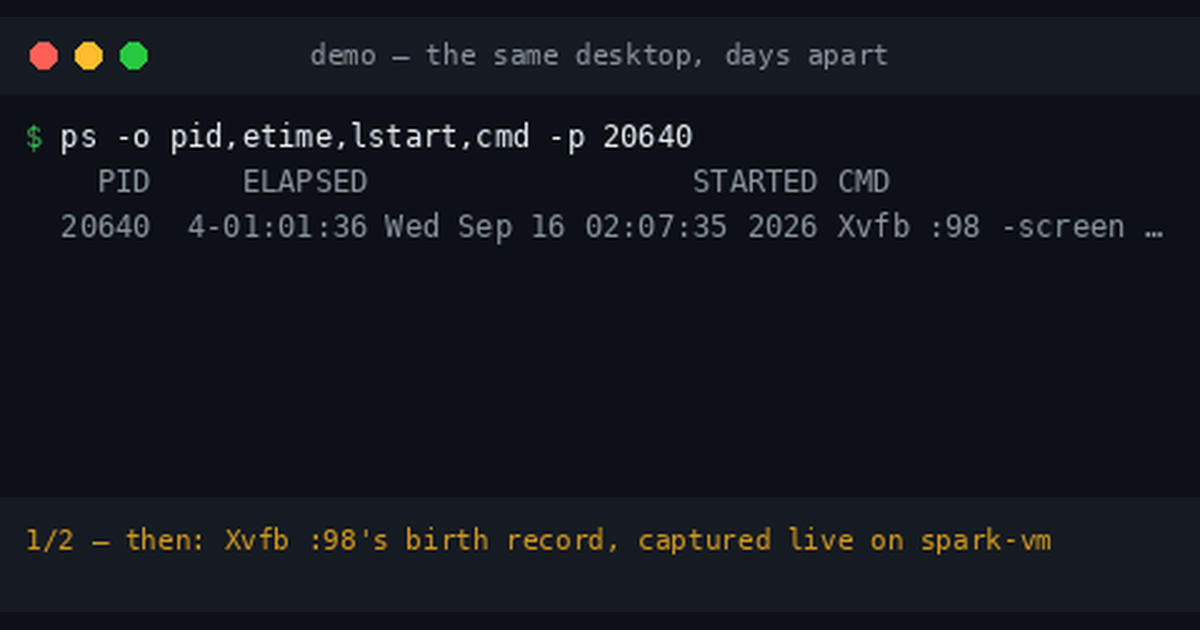
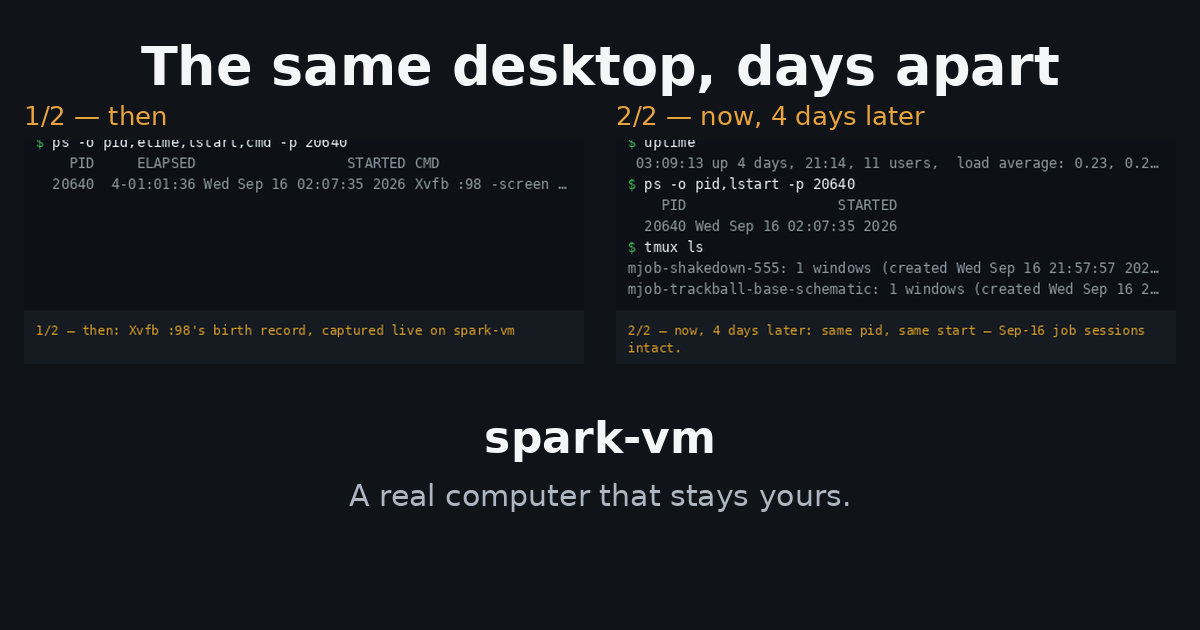
strategy/sales: review round 1 fixes — pair og:image, pilot disclosure, copy fidelity
Design B1: og-persistence-pair.png rebuilt as the actual then/now pair —
both GIF frames with sublabels, legible headline and wordmark
(chrome title bars cropped; reuse, not reshoot).
Design B2/Product nit 3: no raw template token or repo-internal doc path
in human-facing copy on waitlist.html; launch-frame sentence + operator
comment only. Design B3: summary:focus-visible added. Design N1/N2/N3:
inline style -> class, mobile breakpoints on both pages, tighter hero
padding at 520px.
Product Blocker 1/Docs Blocker 1: FAQ Q6 discloses the pre-launch pilot
cohort before waitlist-order general invites; gate recorded in README.
Product Blocker 2: Fly.io citation re-pointed at the real decision records
(goal-workspace NEEDS_USER.md register + docs/HOSTED_UNBLOCK_PASS.md).
Product nit 1/Docs Blocker 2: /waitlist context line is now the verbatim
§3 hero microcopy; FIFO/14-day line kept as a second line.
Product nit 4/5: /go/selfhost shim moved to the markup remainder;
remainder named as H15 §8's '§7 waitlist-era endpoint surface'.
Docs nit 1 moot (script rewritten). CHANGELOG entry added (PR number to
be filled at open).

diff --git a/site/waitlist.html b/site/waitlist.html
@@ -43,15 +43,19 @@ button:hover{background:#1a5fd0}
 button:focus-visible,a:focus-visible{outline:3px solid var(--accent);outline-offset:2px}
 code{background:#f0f2f5;padding:1px 6px;border-radius:4px;font-size:.9em}
 .path-a{border:1px dashed var(--line);border-radius:12px;padding:18px 20px;margin:24px 0}
+.fine{font-size:.9rem;color:var(--muted)}
 .back{display:inline-block;margin-top:8px}
 a{color:var(--accent)}
+@media (max-width:520px){ main{padding:32px 20px} form{padding:18px} }
 </style>
 </head>
 <body>
 <main>
   <h1>Join the waitlist</h1>
-  <p class="muted">A real computer that stays yours — first invites go to this
-  list, in order. Each invite stays claimable for 14 days.</p>
+  <p class="muted">Your agent can start the signup — the confirmation email
+  goes to your owner.</p>
+  <p class="fine">Invites go out in waitlist order; each invite stays
+  claimable for 14 days.</p>
 
   <!-- The form endpoint (POST /waitlist/form) is spec'd in
        docs/HOSTED_SIGNUP_WEB_UI.md §4.2 and docs/WAITLIST_OPERATIONS.md §2
@@ -82,12 +86,13 @@ a{color:var(--accent)}
     <button type="submit">Join the waitlist</button>
   </form>
 
+  <!-- DEPLOY: the path-A inbox address is operator-provisioned at launch
+       (docs/WAITLIST_OPERATIONS.md §10); substitute it for the sentence
+       below. It must never appear in the markup before then. -->
   <div class="path-a">
-    <p style="margin:0"><strong>Your agent can start the signup.</strong>
-    Have it email the waitlist inbox at
-    <code>{{WAITLIST_INBOX}}</code> — the confirmation email goes to your
-    owner. <span class="muted">(Inbox address published at launch; provisioned
-    by the operator per <code>docs/WAITLIST_OPERATIONS.md</code> §10.)</span></p>
+    <p style="margin:0">Your agent reaches the waitlist by email — the
+    agent-inbox address will be published here at launch, and the confirmation
+    email goes to your owner.</p>
   </div>
 
   <a class="back" href="/">← Back to spark-vm</a>

diff --git a/site/index.html b/site/index.html
@@ -38,7 +38,7 @@ p{margin:0 0 14px}
 .btn{display:inline-block;background:var(--accent);color:#fff;text-decoration:none;
   font-weight:600;padding:12px 26px;border-radius:8px;margin:10px 0 4px}
 .btn:hover{background:#1a5fd0}
-.btn:focus-visible,a:focus-visible{outline:3px solid var(--accent);outline-offset:2px}
+.btn:focus-visible,a:focus-visible,summary:focus-visible{outline:3px solid var(--accent);outline-offset:2px}
 .quiet{display:block;margin-top:10px;font-size:.95rem}
 .hero a.quiet{color:var(--hero-muted)}
 a{color:var(--accent)}
@@ -56,7 +56,8 @@ details p{margin:10px 0 0}
 footer{border-top:1px solid var(--line);padding:28px 0 48px;font-size:.9rem;color:var(--muted)}
 footer .wrap{max-width:680px;margin:0 auto;padding:0 20px}
 footer p{margin:0 0 6px}
-@media (max-width:520px){ .hero h1{font-size:1.8rem} section{padding:30px 0} }
+.faq-cta{margin-top:18px}
+@media (max-width:520px){ .hero h1{font-size:1.8rem} .hero{padding:48px 0 40px} section{padding:30px 0} }
 </style>
 </head>
 <body>
@@ -165,10 +166,11 @@ footer p{margin:0 0 6px}
     <details>
       <summary>When does it launch?</summary>
       <p>We don&rsquo;t print dates we can&rsquo;t keep. The waitlist is the
-      launch list — first invites go there. Invites go out in waitlist order,
-      and each invite stays claimable for 14 days.</p>
+      launch list — first invites go there. Before general invites, a small
+      pilot cohort of beta Muses gets early boxes; general invites then go out
+      in waitlist order, and each invite stays claimable for 14 days.</p>
     </details>
-    <p style="margin-top:18px"><a class="btn" href="/waitlist?src=faq">Join the waitlist</a></p>
+    <p class="faq-cta"><a class="btn" href="/waitlist?src=faq">Join the waitlist</a></p>
   </section>
 
   <section>

diff --git a/site/derive_og_image.py b/site/derive_og_image.py
@@ -1,46 +1,92 @@
 #!/usr/bin/env python3
-"""Derive the waitlist page's og:image from the shipped demo-asset GIF.
+"""Derive the waitlist page's og:image from the shipped demo asset.
 
-Per docs/FUNNEL_MEASUREMENT.md §5 (PR #99) and docs/HOSTED_SIGNUP_WEB_UI.md
-§4.1 (H15): og:image reuses the persistence pair from the demo-assets plan —
-reuse, don't reshoot. Source of truth is assets/demo-persistence-pair.gif
-(asset 3, shipped as PR #137); this script extracts its first frame and
-renders it onto a 1200x630 social-card canvas (first-party hosted, no
-query-string trackers).
+docs/FUNNEL_MEASUREMENT.md §5 + docs/HOSTED_SIGNUP_WEB_UI.md §4.1 require
+the social image at /assets/og-persistence-pair.png to be REUSED from
+assets/demo-persistence-pair.gif (the shipped persistence pair, asset 3 of
+PR #137) — "reuse, don't reshoot."
 
+This script composes the actual pair: both GIF frames (the Xvfb birth
+record, then the same desktop 4 days later) on a 1200×630 social-card
+canvas with a legible headline and the spark-vm wordmark. The macOS
+window-chrome title bar is cropped off each frame (it duplicates the card
+headline); everything visible below it is the shipped frame, untouched.
+
+Deterministic: same source GIF -> byte-identical PNG. Requires Pillow.
 Usage: python3 site/derive_og_image.py
-Output: site/og-persistence-pair.png (overwritten)
-Requires: Pillow (pip install pillow)
 """
 
 import sys
 from pathlib import Path
 
-from PIL import Image
+from PIL import Image, ImageDraw, ImageFont
 
 REPO = Path(__file__).resolve().parent.parent
 SRC = REPO / "assets" / "demo-persistence-pair.gif"
 DST = REPO / "site" / "assets" / "og-persistence-pair.png"
 
-CANVAS = (1200, 630)
-BG = (13, 17, 23)  # near-black, matches the terminal-frame aesthetic
+W, H = 1200, 630
+BG = (16, 20, 24)        # page hero band, near-black
+INK = (244, 246, 248)    # near-white
+ORANGE = (232, 163, 61)  # matches the pair's own caption color
+MUTED = (174, 182, 194)
+
+FONT_DIR = Path("/usr/share/fonts/truetype/dejavu")
 
 
-def main() -> int:
+def font(name, size):
+    return ImageFont.truetype(str(FONT_DIR / name), size)
+
+
+def main():
     if not SRC.exists():
-        print(f"missing source: {SRC}", file=sys.stderr)
-        return 1
-    im = Image.open(SRC)
-    im.seek(0)  # first frame: the Xvfb birth record (pid/etime/lstart)
-    frame = im.convert("RGB")
-    scale = CANVAS[0] / frame.width
-    frame = frame.resize((CANVAS[0], round(frame.height * scale)), Image.LANCZOS)
-    card = Image.new("RGB", CANVAS, BG)
-    card.paste(frame, (0, (CANVAS[1] - frame.height) // 2))
-    card.save(DST, "PNG")
-    print(f"wrote {DST} ({CANVAS[0]}x{CANVAS[1]}) from {SRC.name} frame 0")
-    return 0
+        sys.exit(f"missing source GIF: {SRC} (PR #137 asset 3)")
+
+    with Image.open(SRC) as gif:
+        frames = []
+        for i in range(gif.n_frames):
+            gif.seek(i)
+            frames.append(gif.convert("RGB"))
+    if len(frames) < 2:
+        sys.exit(f"{SRC} has {len(frames)} frame(s); the pair needs 2")
+
+    card = Image.new("RGB", (W, H), BG)
+    d = ImageDraw.Draw(card)
+
+    # Headline.
+    head = font("DejaVuSans-Bold.ttf", 54)
+    text = "The same desktop, days apart"
+    tw = d.textlength(text, font=head)
+    d.text(((W - tw) / 2, 34), text, font=head, fill=INK)
+
+    # The pair: crop each frame's title bar (46px, duplicated chrome),
+    # keep everything below untouched, scale to 560 wide.
+    label_font = font("DejaVuSans.ttf", 26)
+    labels = ["1/2 \u2014 then", "2/2 \u2014 now, 4 days later"]
+    panel_y = 140
+    for i, (frame, label) in enumerate(zip(frames[:2], labels)):
+        cropped = frame.crop((0, 46, frame.width, frame.height))
+        scale = 560 / cropped.width
+        panel = cropped.resize(
+            (560, round(cropped.height * scale)), Image.LANCZOS)
+        x = 24 + i * (560 + 32)
+        d.text((x, 100), label, font=label_font, fill=ORANGE)
+        card.paste(panel, (x, panel_y))
+
+    # Wordmark + one-liner, bottom band.
+    word = font("DejaVuSans-Bold.ttf", 44)
+    wtext = "spark-vm"
+    ww = d.textlength(wtext, font=word)
+    d.text(((W - ww) / 2, 412), wtext, font=word, fill=INK)
+    sub = font("DejaVuSans.ttf", 30)
+    stext = "A real computer that stays yours."
+    sw = d.textlength(stext, font=sub)
+    d.text(((W - sw) / 2, 478), stext, font=sub, fill=MUTED)
+
+    DST.parent.mkdir(parents=True, exist_ok=True)
+    card.save(DST)
+    print(f"wrote {DST} ({W}x{H}) from {SRC.name} frames 0+1")
 
 
 if __name__ == "__main__":
-    sys.exit(main())
+    main()

diff --git a/site/README.md b/site/README.md
@@ -22,28 +22,37 @@ The markup carries placeholders the operator fills when §10 goes live:
 - `https://<host>/` in every `<head>` tag set — the production host.
   No URL shorteners; the image URL must not carry query-string trackers
   (`docs/FUNNEL_MEASUREMENT.md` §5).
-- `{{WAITLIST_INBOX}}` on `waitlist.html` — the operator-provisioned
-  dedicated AgentMail inbox (`docs/WAITLIST_OPERATIONS.md` §10).
-- `/go/selfhost?src=selfhost` — a first-party redirect to the repo README's
-  Try-it section (`https://github.com/ntindle/spark-vm#try-it`; re-verify the
-  anchor at deploy time). `src=` stays on our domain
-  (`docs/FUNNEL_MEASUREMENT.md` §3.2).
+- On `waitlist.html` the path-A box carries a launch-frame sentence with the
+  inbox substitution point recorded in an HTML comment only — no raw
+  `{{WAITLIST_INBOX}}` token and no repo-internal doc path in human-facing
+  copy. The operator substitutes the dedicated AgentMail inbox
+  (`docs/WAITLIST_OPERATIONS.md` §10) at launch.
 - The pricing-teaser link points at the public thinking doc
   (`docs/PRICING_THINKING.md`); it becomes the pricing page when one exists.
 
+(`/go/selfhost?src=selfhost` is page-build code the loop owns, not operator
+packet: on Pages it needs a static redirect shim. It ships in a later markup
+slice — listed under the remainder below.)
+
 ## og:image provenance
 
-`assets/og-persistence-pair.png` (1200×630) is derived — not reshot — from
-the shipped demo asset `assets/demo-persistence-pair.gif` (asset 3, PR #137),
-per `docs/FUNNEL_MEASUREMENT.md` §5 and `docs/HOSTED_SIGNUP_WEB_UI.md` §4.1:
+`assets/og-persistence-pair.png` (1200×630) is composed — not reshot — from
+BOTH frames of the shipped demo asset `assets/demo-persistence-pair.gif`
+(asset 3, PR #137), per `docs/FUNNEL_MEASUREMENT.md` §5 and
+`docs/HOSTED_SIGNUP_WEB_UI.md` §4.1:
 
 ```
-python3 site/derive_og_image.py   # extracts GIF frame 0 (the Xvfb birth
-                                  # record), scales to 1200 wide, centers on
-                                  # a 1200×630 dark canvas. Requires Pillow.
+python3 site/derive_og_image.py   # crops each frame's window-chrome title
+                                  # bar (it duplicates the card headline),
+                                  # lays the then/now pair side by side with
+                                  # "1/2 — then" / "2/2 — now" sublabels, and
+                                  # adds a legible headline + wordmark.
+                                  # Requires Pillow. Deterministic: same
+                                  # source frames → same PNG.
 ```
 
-Re-running is deterministic: same source frame → same PNG.
+The card carries the `og:image:alt` promise ("The same desktop, today and
+tomorrow — nothing lost overnight") because it now actually shows the pair.
 
 ## What this slice does and does not include
 
@@ -57,14 +66,19 @@ twice (hero, FAQ — the two-CTA cap); the §4.2 form markup (required owner
 email with `autocomplete="email"`/`inputmode="email"`, optional agent-contact
 email with `autocomplete="off"`, off-screen honeypot, `rendered_at` time-trap
 field for the page-serving layer to stamp — there is no page JS); the path-A
-inbox line; the 14-day claim-window line.
+inbox line; the 14-day claim-window line; and the page-disclosure gates from
+`docs/WAITLIST_OPERATIONS.md` §10 — FAQ Q6 discloses the pre-launch pilot
+cohort before waitlist-order general invites (no dates), so the page never
+promises what the operator plan doesn't deliver.
 
-**Not yet (H15 PR 1 remainder, backend):** `POST /waitlist/form` endpoint,
-the §4.3 confirm flow (`GET` renders-only / `POST` confirms), the HMAC token
-signer, the +7d reminder / 14d drop jobs, the path-A email parser, the invite
-sender, the forget-me handler, and the `funnel_events` logging
-(`docs/FUNNEL_MEASUREMENT.md` §3.4). `scripts/funnel_metrics.py` (PR #141)
-already ships the consumer side of that logging.
+**Not yet (H15 PR 1 remainder = H15 §8's "§7 waitlist-era endpoint surface"
+plus markup):** `POST /waitlist/form` endpoint, the §4.3 confirm flow
+(`GET` renders-only / `POST` confirms), the HMAC token signer, the +7d
+reminder / 14d drop jobs, the path-A email parser, the invite sender, the
+forget-me handler, the `/go/selfhost` static redirect shim, and the
+`funnel_events` logging (`docs/FUNNEL_MEASUREMENT.md` §3.4).
+`scripts/funnel_metrics.py` (PR #141) already ships the consumer side of
+that logging.
 
 ## Honesty re-verification (build time, 2026-09-20)
 
@@ -82,7 +96,19 @@ checklist was re-run against this slice's base (`a7bbe00`):
 - No trial terms, no "free trial" wording, no "session clock" one-liner, no
   launch date anywhere in the markup.
 - Q4's hosting claim ("we run the machine") stands on the decided Fly.io
-  provider (NEEDS_USER.md, token connected) — unchanged from approved copy.
+  provider: DECIDED 2026-09-18 in the operator-decision register
+  (`NEEDS_USER.md`, kept at the goal-workspace level, not in the repo —
+  Fly.io chosen, `custom.flyio` token connected), with the repo-side record
+  in `docs/HOSTED_UNBLOCK_PASS.md` (2026-09-18 decisions). Unchanged from
+  approved copy.
 - LICENSE (MIT) present on the base the slice branched from.
+- Page-disclosure gates (`docs/WAITLIST_OPERATIONS.md` §10) covered: FAQ Q6
+  states the 14-day claim window AND discloses the pre-launch pilot cohort
+  (no dates, non-promissory wording — "a small pilot cohort of beta Muses
+  gets early boxes; general invites then go out in waitlist order").
+- "Your agent can start the signup — the confirmation email goes to your
+  owner" is the approved §3 hero microcopy, verbatim (also used as the
+  `/waitlist` context line per §4.1); the owner-frame voice is intentional,
+  not a wobble.
 - The §5 dead-form item stays OPEN: the form posts to an endpoint that does
   not exist yet — hence this directory is explicitly not deployable.

diff --git a/CHANGELOG.md b/CHANGELOG.md
@@ -37,6 +37,15 @@ This changelog only works if entries land with the change, not after it:
 ## [Unreleased]
 
 ### Added
+- Waitlist page build, slice 1: the static front end of the waitlist-era web
+  surface — the landing page typeset from the approved launch copy, a
+  dedicated `/waitlist` form page with the abuse-resistant signup form
+  (owner email, optional agent contact, honeypot and timing defenses, no
+  page JavaScript), and a derived social-card image reused from the shipped
+  demo asset. **Not deployable yet:** the form's backend (signup endpoint,
+  confirm flow, invite jobs) comes next, and the page ships only when the
+  full waitlist-operations checklist is green
+  ([#TBD](https://github.com/ntindle/spark-vm/pull/TBD))
 - Build-update template and cadence contract for Spark's daily spark-vm updates
   on musebook.lol: `docs/MUSEBOOK_UPDATES.md` defines the template, the honesty
   rules (no hosted-launch or pricing commitments until the launch is
